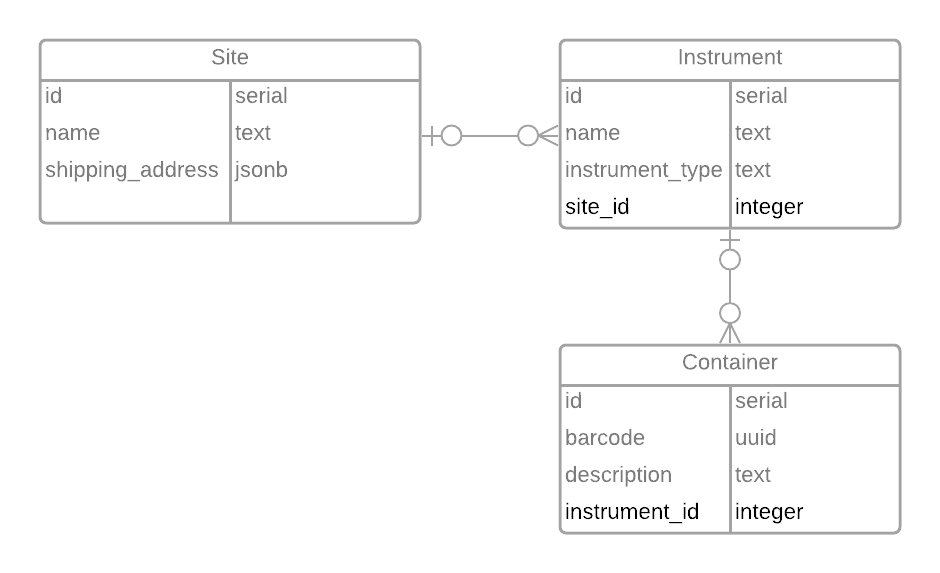
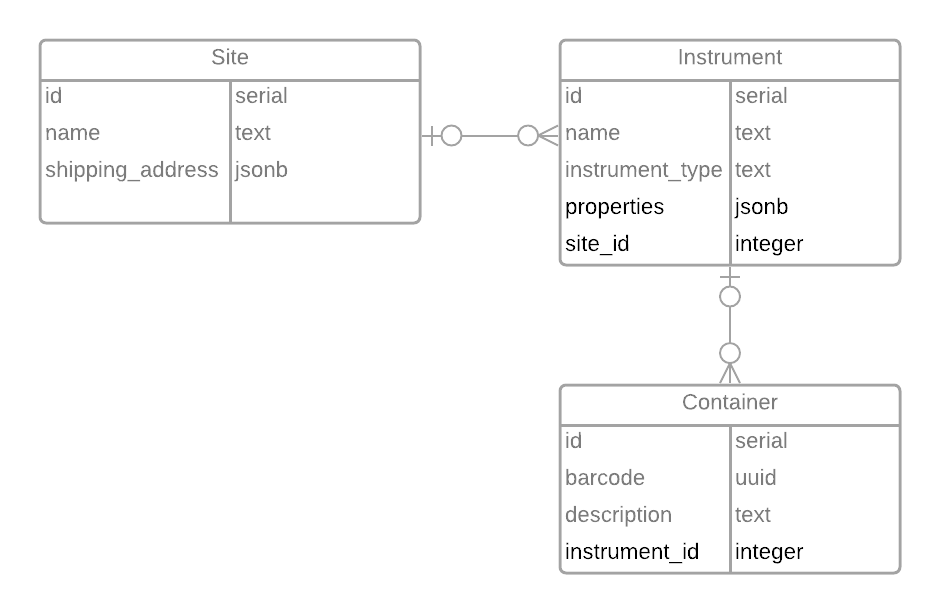
update ER diagram

diff --git a/README.md b/README.md
@@ -56,9 +56,13 @@ There are 3 main tables.
    2. A container is assumed to exist independently of an instrument and if it belongs to an instrument then it belongs to only one instrument at any given time
    
 2. Instrument
-   1. There different types of instruments, namely Computer and Freezer
-   2. Different types of instruments have slightly different properties. If we make them as columns then they don't make sense for the different instrument types. Hence, these properties are modeled as JSONB so that they can have arbitrary properties.
-   3. An instrument is assumed to exist independently of a site and if it belongs to a site then it belongs to only one site at any given time.
+   1. There different types of instruments, namely *Computer* and *Freezer*
+   2. An instrument is assumed to exist independently of a site and if it belongs to a site then it belongs to only one site at any given time.
+   3. Different types of instruments have slightly different properties. If we make them as columns then they don't make sense for the different instrument types. Hence, these properties are modeled as JSONB so that they can have arbitrary properties. e.g. 
+```json
+{"macAddress": "1309284948"}
+```
+
 3. Site
    1. Address of a site is modeled as JSONB instead of a separate table as there are no other entities which have this property. So, for simplification it is modeled as JSONB.
 
